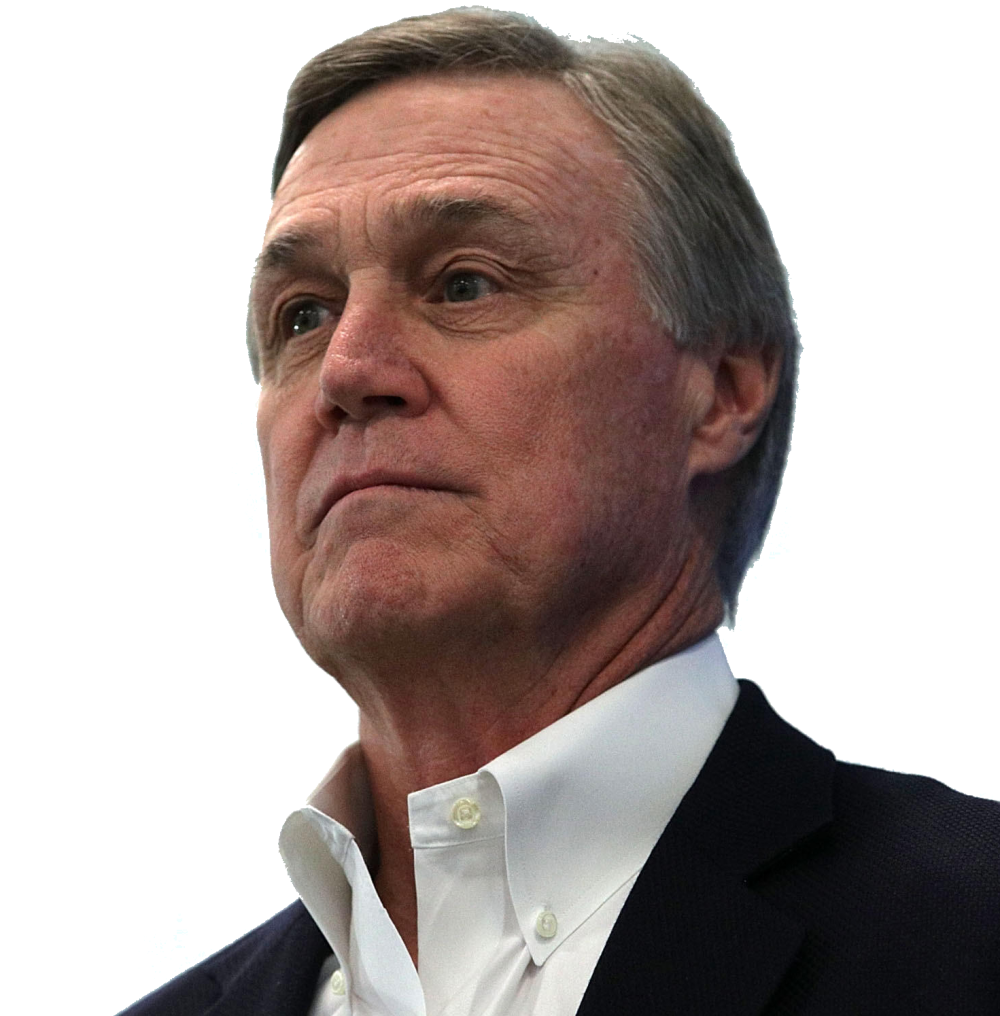
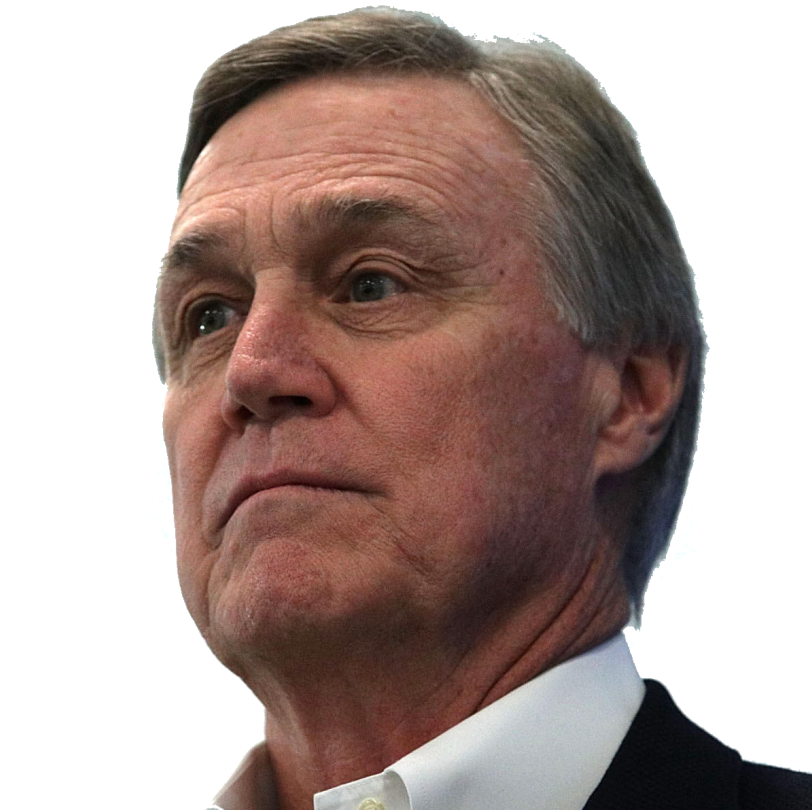
Add pictures

diff --git a/src/data/candidateInfo.js b/src/data/candidateInfo.js
@@ -153,7 +153,7 @@ export default {
         
         repId: 'S6AL00195',
         repName: 'Jeff Sessions',
-        repImg: 'republican-solid.svg',
+        repImg: 'jeff-sessions.png',
       },
       {
         state: 'Kentucky',
@@ -162,12 +162,12 @@ export default {
         
         demId: 'S0KY00339',
         demName: 'Amy McGrath',
-        demImg: 'democrat-solid.svg',
+        demImg: 'amy-mcgrath.png',
         demDonate: 'https://secure.actblue.com/donate/am-website',
         
         repId: 'S2KY00012',
         repName: 'Mitch McConnell',
-        repImg: 'republican-solid.svg',
+        repImg: 'mitch-mcconnell.png',
       },
       {
         state: 'New Hampshire',
@@ -204,7 +204,7 @@ export default {
         
         demId: 'S0KS00323',
         demName: 'Barbara Bollier',
-        demImg: 'democrat-solid.svg',
+        demImg: 'barbara-bollier.png',
         demDonate: 'https://secure.actblue.com/donate/bb4ks-web',
         
         repId: 'S0KS00349',
